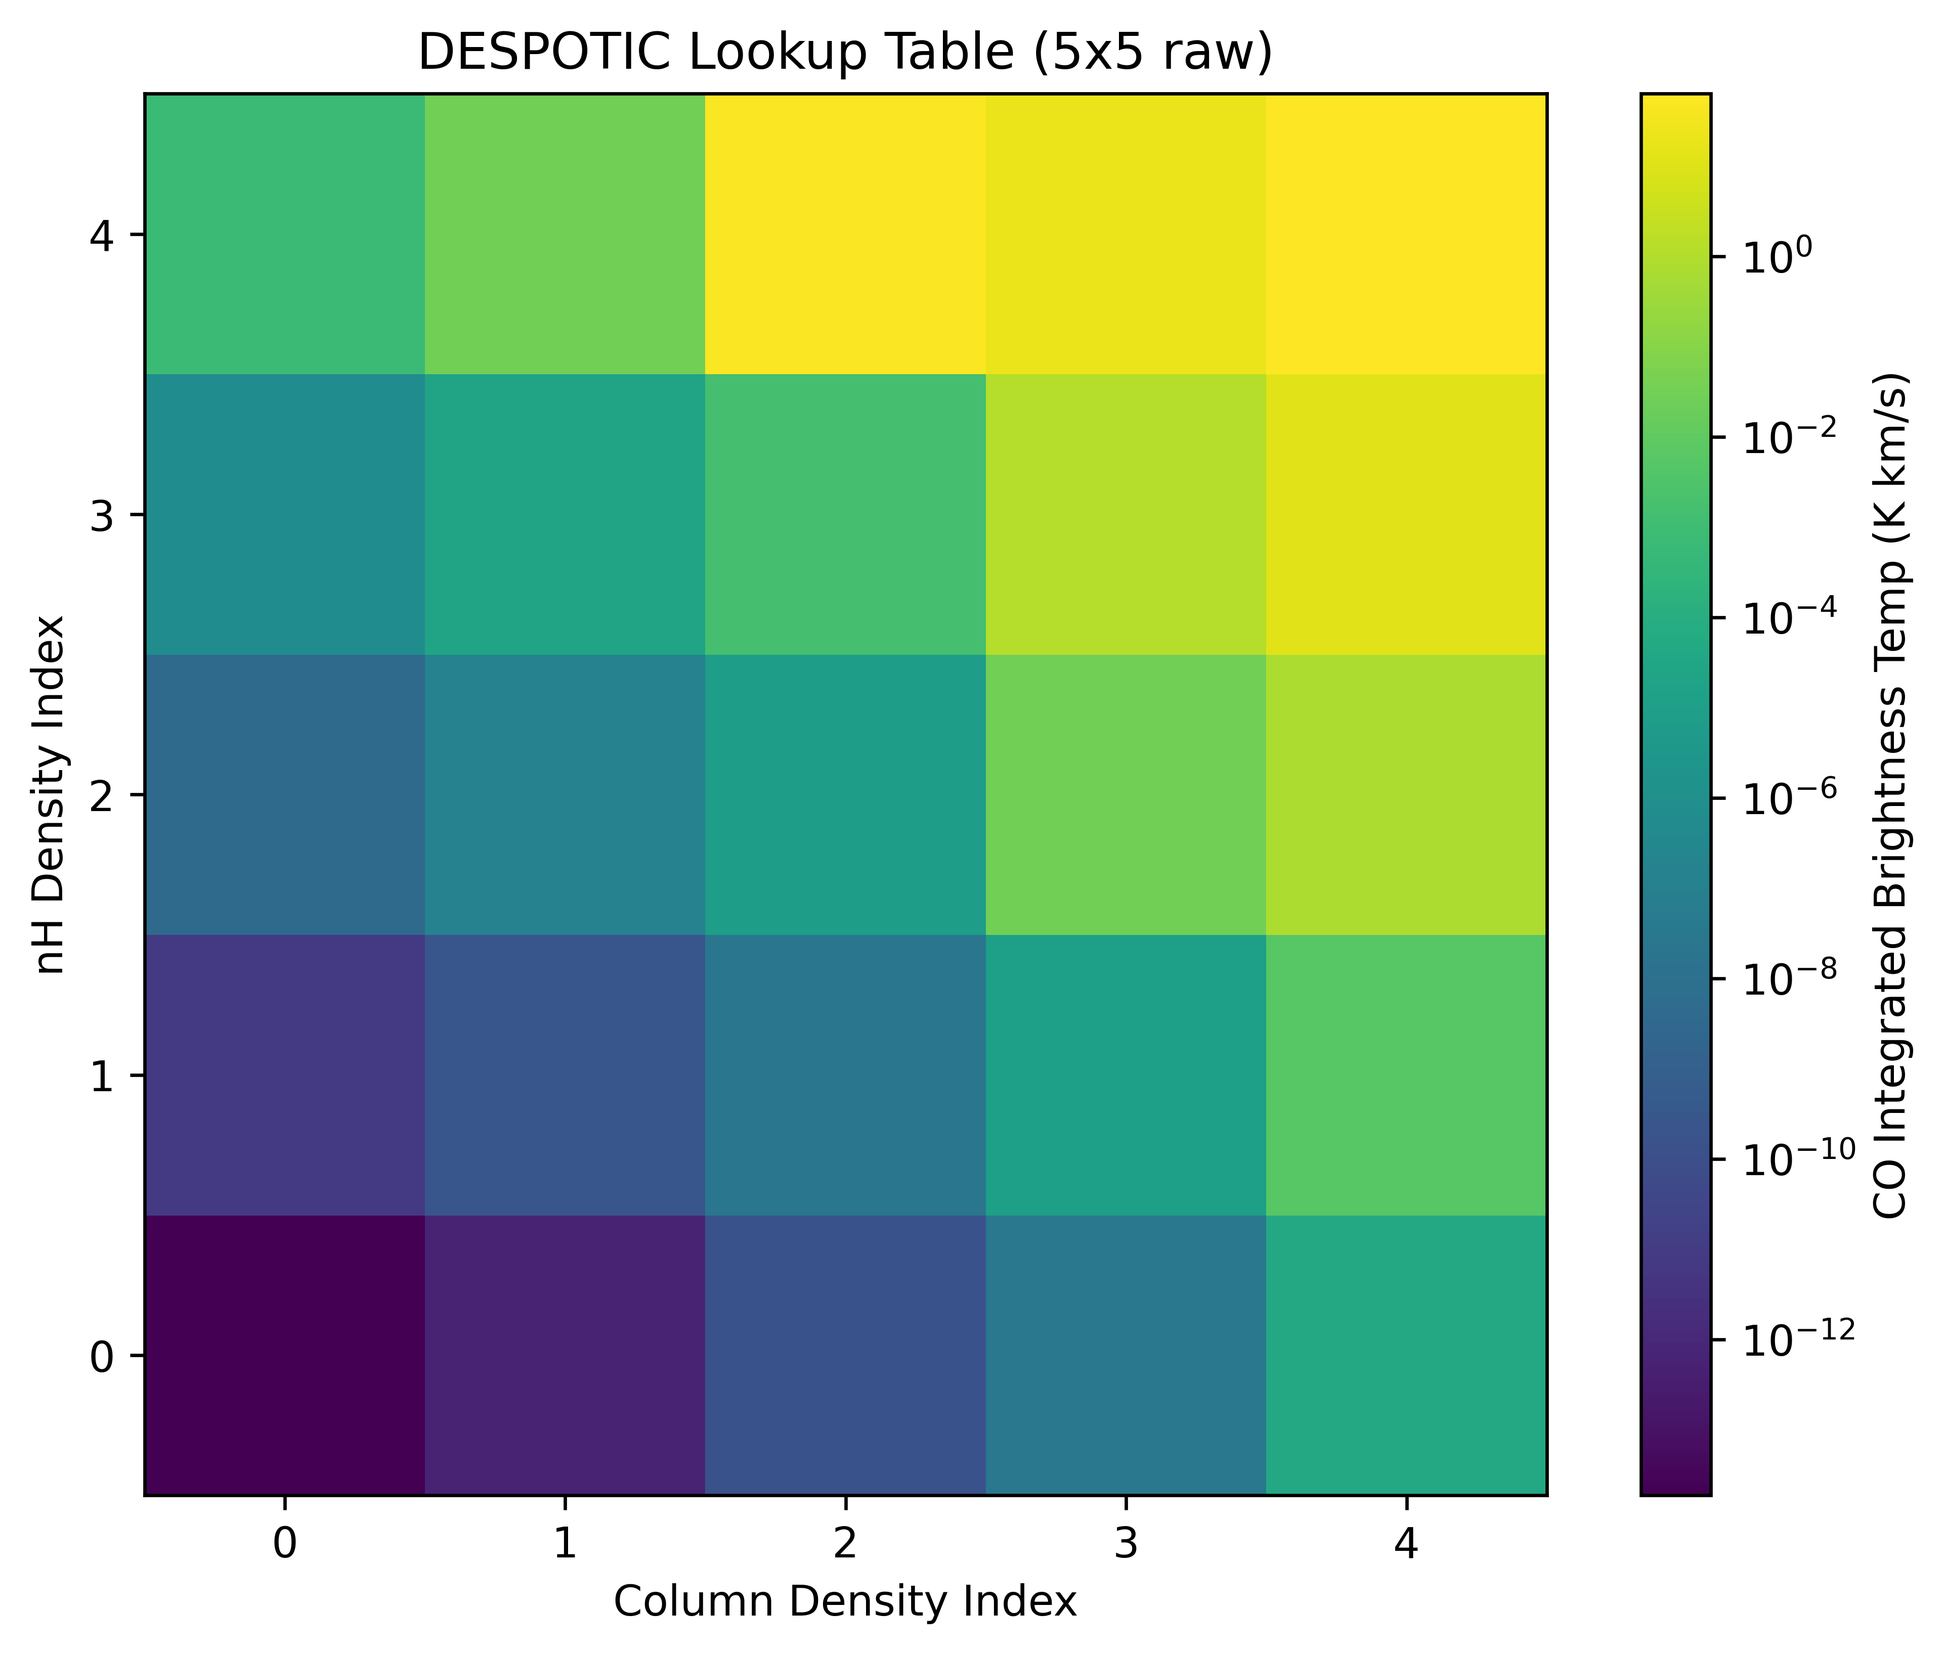
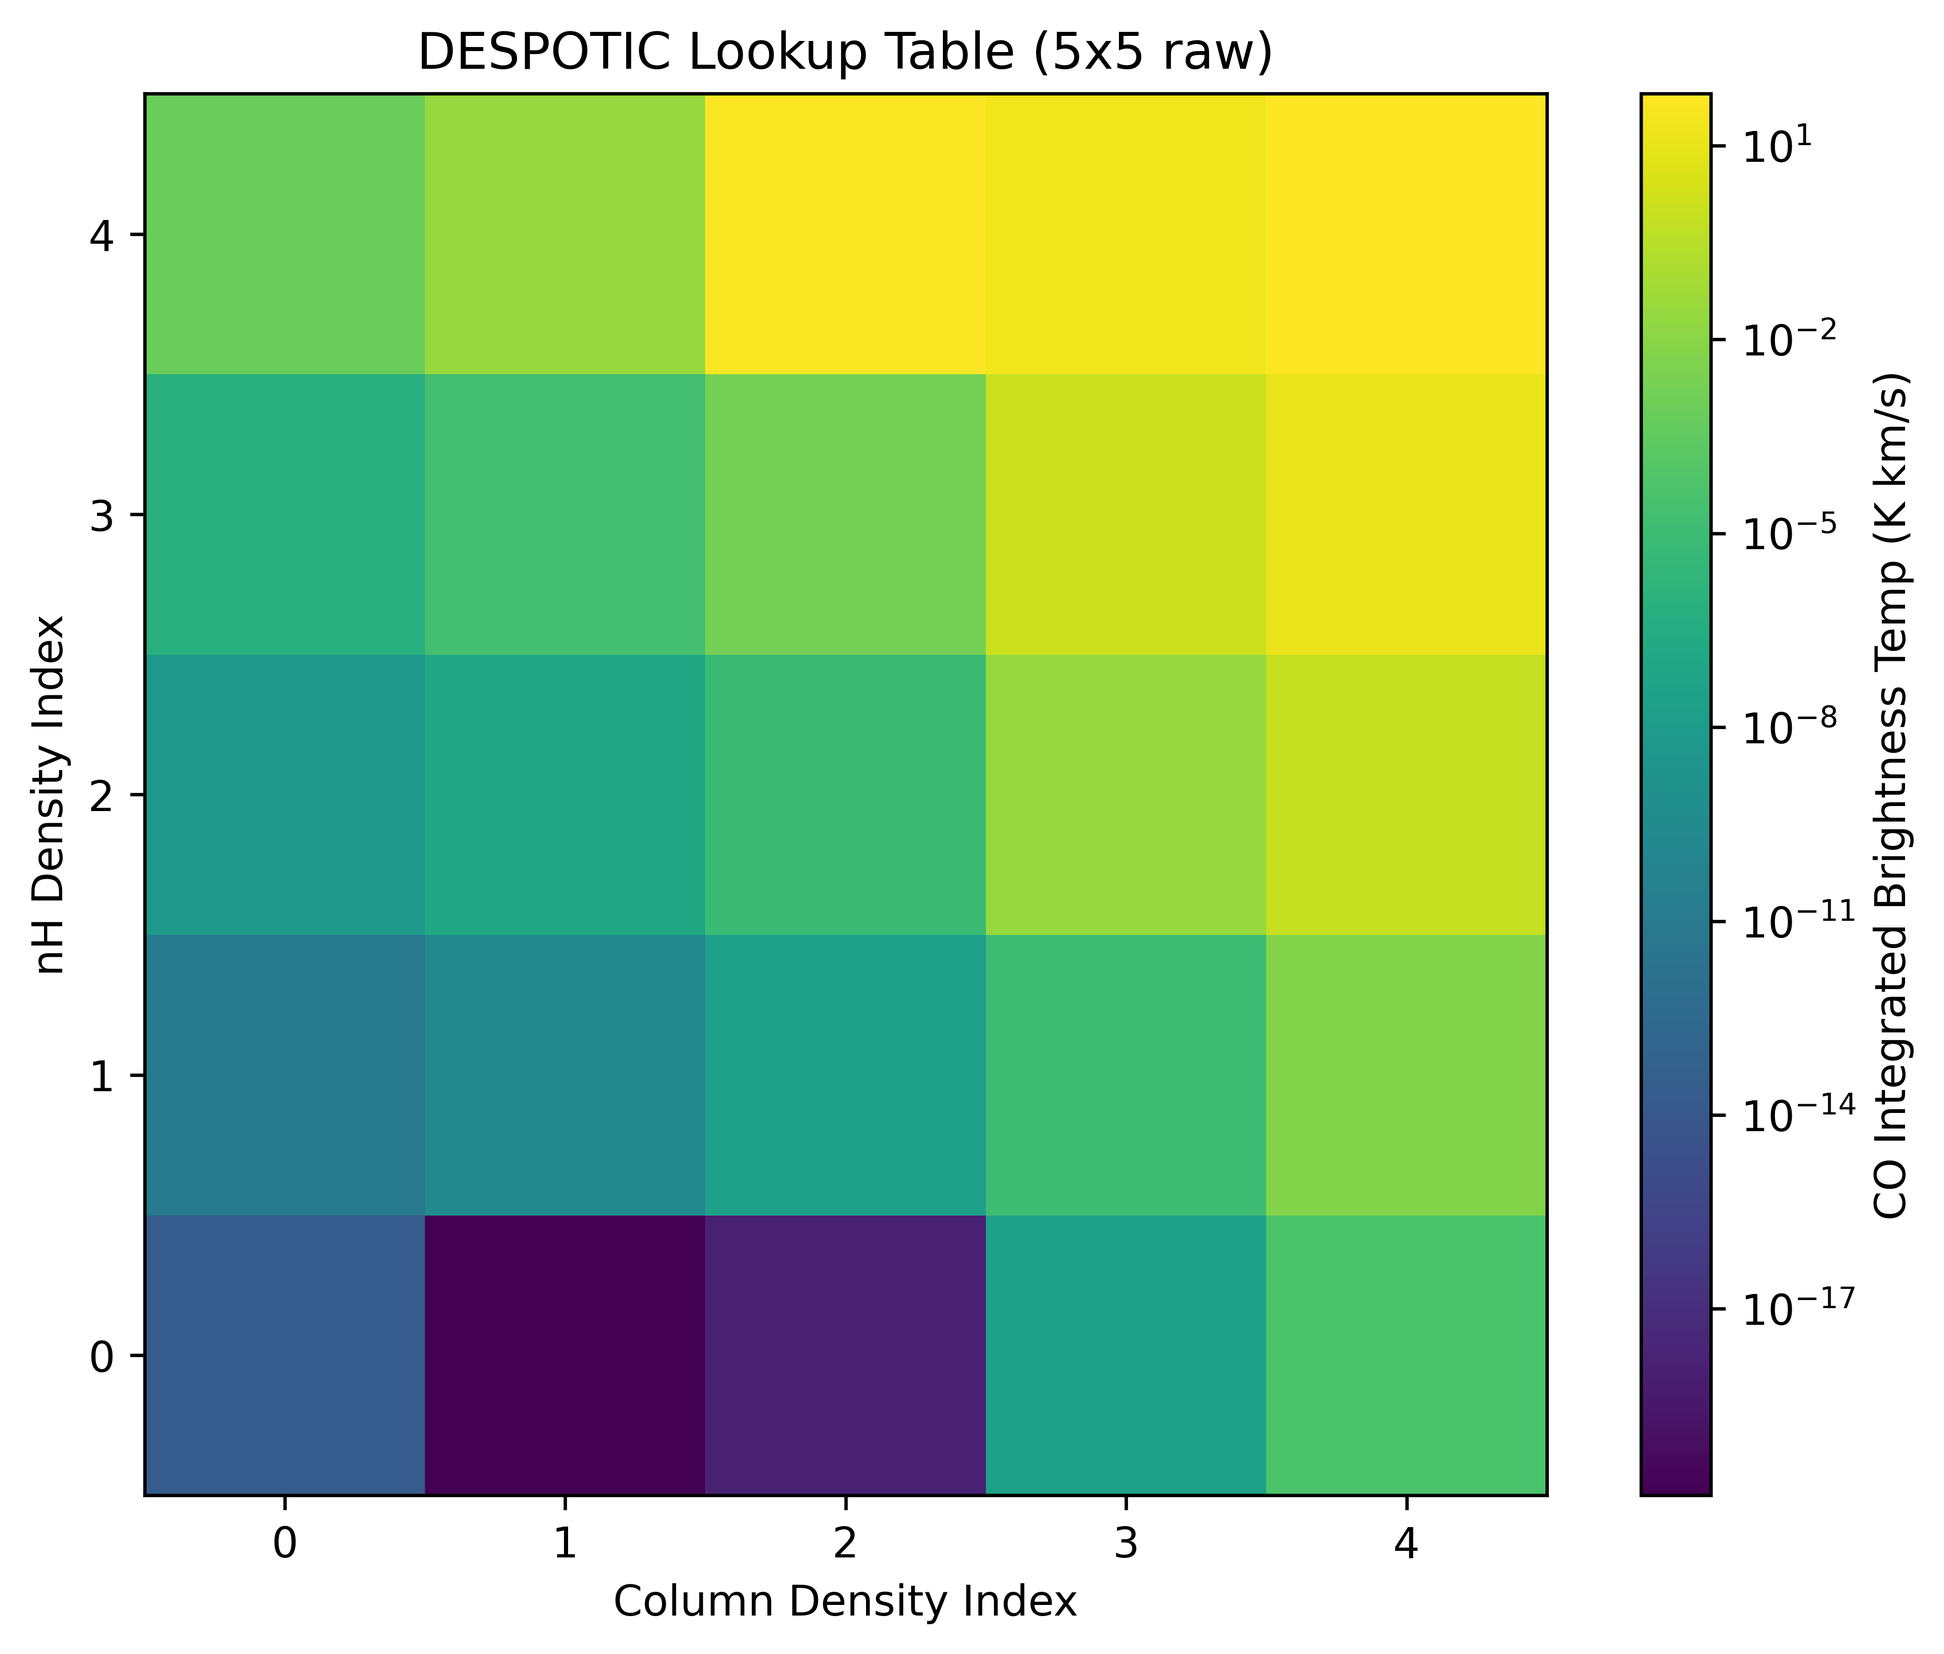
fixed table

diff --git a/examples/halpha_analysis/single_point.py b/examples/halpha_analysis/single_point.py
@@ -13,16 +13,24 @@ import config as cfg
 # import yt
 
 # mH = mh
-Tg_map = [1958.3639773669447, 1876.3811984430195, 1904.6735038533895, 2269.7464280911563, 5529.099690585343, 4467.07705368385, 1921.7595997264211, 1903.3063609939322, 1907.7950789311126, 1923.5653681769838, 3128.178080797415, 1921.9298726833636, 1896.4011480919055, 1909.3440156155311, 13996.874562092222, 3022.9801308742763, 1907.308357562927, 1909.4572682127873, 2229.9653914481332, 1947.0623389936507, 2388.5525460121485, 1901.115961026267, 2393.6290610541246, 2693.9753954376056, 1907.308357562927, 1907.308357562927, 1906.8138296348143, 2959.997148072065, 208072.04383595262, 503398.0480434042, 6199404.503674414, 1907.3083575629323, 1951.2451612775776, 1907.2675792788657, 1907.3096438825598, 2098.333042303612, 37739.033264610196, 25301.5132811833, 1907.1986667866572, 1906.0004035267134, 1940.9177912829907, 1907.2974533513202, 1907.978989716906, 1907.308433427053, 1926.1281732989792, 2043.475598201943, 2061.8065832019997, 1906.219433232716, 34590.689516202736, 24173.3696307906, 1123275.1871095176, 1998.2232263030933, 1891.6056493165058, 1908.05451292517, 1909.1151153089127, 1907.308357562927, 889293.6619643234, 67831.41869508532, 69094.70519253935, 2621.014000572547, 2080.154582484991, 1890.6529949503965, 2618.834115138999, 1907.3084022789865]
-nH_map = [1.2320302372133183, 1.1684523696695739, 1.1974539579455588, 1.1942401672150151, 1.1855342979956085, 1.161448216214898, 1.199584760383945, 1.1753252637279459, 1.210521822892777, 1.1970207113781501, 1.19178332916999, 1.1321923164717076, 1.2076318592876174, 1.188859439192268, 1.1836976773830432, 1.1558925146612018, 1.1858019085800937, 1.1861685427101936, 1.1908277898323791, 1.2344626428349812, 1.2050211555908568, 1.1982340482522424, 1.206347083730393, 1.1865016791306218, 1.1858019085800937, 1.1858019085800937, 1.1873304494075356, 1.206115360795091, 1.1779518031419949, 1.1892951461545724, 1.1545051815415148, 1.1858019085801197, 1.179608466561351, 1.1858994073878082, 1.1858070530759097, 1.1918373321349323, 1.1433411860145717, 1.1602835898674009, 1.1859242619930501, 1.1923800389509445, 1.192878087036351, 1.1858206349049605, 1.1864388868281999, 1.1858020373339584, 1.1968288635100475, 1.1977691937746906, 1.1859647204675012, 1.1903900060189183, 1.1866796114621316, 1.206031662664297, 1.1748806508216025, 1.2125163035408497, 1.2029741826696536, 1.1878734281802794, 1.1897061459608487, 1.1858019085800937, 1.1791845771894107, 1.1600456182676286, 1.2035796972905481, 1.2044040890806997, 1.1469815629635776, 1.212447323823883, 1.1770582579165845, 1.1858019708459082]
-colDens_map = [9.786281204255755e+19, 9.666951701779079e+19, 9.724975802568827e+19, 9.733322563233071e+19, 9.6838059557484e+19, 9.671120964662336e+19, 9.713585793744065e+19, 9.67320637676157e+19, 9.73839076563484e+19, 9.687896219838741e+19, 9.694492773090741e+19, 9.641266645309397e+19, 9.69992930411563e+19, 9.686045767796931e+19, 9.674831880493859e+19, 9.627783636681343e+19, 9.753600832311237e+19, 9.723986188304089e+19, 9.746089961439465e+19, 9.822600009452415e+19, 9.744705874662762e+19, 9.748553925928549e+19, 9.75454538601202e+19, 9.716677907541502e+19, 9.706145460833103e+19, 9.675782430154767e+19, 9.694954915470474e+19, 9.73260932042937e+19, 9.65307602394057e+19, 9.691773018327938e+19, 9.63946406547262e+19, 9.668966165132386e+19, 9.675940505517359e+19, 9.65727137273969e+19, 9.67396007269483e+19, 9.698344441934466e+19, 9.59971515709126e+19, 9.633723751156372e+19, 9.660232414632685e+19, 9.659619009654722e+19, 9.732970696544918e+19, 9.695186683882268e+19, 9.712989713072216e+19, 9.729076395379946e+19, 9.706552542713476e+19, 9.717844846787597e+19, 9.695854572652141e+19, 9.694899734829269e+19, 9.735649821753013e+19, 9.732839287600431e+19, 9.689435388612021e+19, 9.775688300392872e+19, 9.725361712896752e+19, 9.71607330277694e+19, 9.713394283819046e+19, 9.697990926250071e+19, 9.685789539555518e+19, 9.642895153297108e+19, 9.711278354429588e+19, 9.73407766070865e+19, 9.609640744783649e+19, 9.719601595900025e+19, 9.668506161480008e+19, 9.667747813691875e+19]
+# Tg_map = [1958.3639773669447, 1876.3811984430195, 1904.6735038533895, 2269.7464280911563, 5529.099690585343, 4467.07705368385, 1921.7595997264211, 1903.3063609939322, 1907.7950789311126, 1923.5653681769838, 3128.178080797415, 1921.9298726833636, 1896.4011480919055, 1909.3440156155311, 13996.874562092222, 3022.9801308742763, 1907.308357562927, 1909.4572682127873, 2229.9653914481332, 1947.0623389936507, 2388.5525460121485, 1901.115961026267, 2393.6290610541246, 2693.9753954376056, 1907.308357562927, 1907.308357562927, 1906.8138296348143, 2959.997148072065, 208072.04383595262, 503398.0480434042, 6199404.503674414, 1907.3083575629323, 1951.2451612775776, 1907.2675792788657, 1907.3096438825598, 2098.333042303612, 37739.033264610196, 25301.5132811833, 1907.1986667866572, 1906.0004035267134, 1940.9177912829907, 1907.2974533513202, 1907.978989716906, 1907.308433427053, 1926.1281732989792, 2043.475598201943, 2061.8065832019997, 1906.219433232716, 34590.689516202736, 24173.3696307906, 1123275.1871095176, 1998.2232263030933, 1891.6056493165058, 1908.05451292517, 1909.1151153089127, 1907.308357562927, 889293.6619643234, 67831.41869508532, 69094.70519253935, 2621.014000572547, 2080.154582484991, 1890.6529949503965, 2618.834115138999, 1907.3084022789865]
+# nH_map = [1.2320302372133183, 1.1684523696695739, 1.1974539579455588, 1.1942401672150151, 1.1855342979956085, 1.161448216214898, 1.199584760383945, 1.1753252637279459, 1.210521822892777, 1.1970207113781501, 1.19178332916999, 1.1321923164717076, 1.2076318592876174, 1.188859439192268, 1.1836976773830432, 1.1558925146612018, 1.1858019085800937, 1.1861685427101936, 1.1908277898323791, 1.2344626428349812, 1.2050211555908568, 1.1982340482522424, 1.206347083730393, 1.1865016791306218, 1.1858019085800937, 1.1858019085800937, 1.1873304494075356, 1.206115360795091, 1.1779518031419949, 1.1892951461545724, 1.1545051815415148, 1.1858019085801197, 1.179608466561351, 1.1858994073878082, 1.1858070530759097, 1.1918373321349323, 1.1433411860145717, 1.1602835898674009, 1.1859242619930501, 1.1923800389509445, 1.192878087036351, 1.1858206349049605, 1.1864388868281999, 1.1858020373339584, 1.1968288635100475, 1.1977691937746906, 1.1859647204675012, 1.1903900060189183, 1.1866796114621316, 1.206031662664297, 1.1748806508216025, 1.2125163035408497, 1.2029741826696536, 1.1878734281802794, 1.1897061459608487, 1.1858019085800937, 1.1791845771894107, 1.1600456182676286, 1.2035796972905481, 1.2044040890806997, 1.1469815629635776, 1.212447323823883, 1.1770582579165845, 1.1858019708459082]
+# colDens_map = [9.786281204255755e+19, 9.666951701779079e+19, 9.724975802568827e+19, 9.733322563233071e+19, 9.6838059557484e+19, 9.671120964662336e+19, 9.713585793744065e+19, 9.67320637676157e+19, 9.73839076563484e+19, 9.687896219838741e+19, 9.694492773090741e+19, 9.641266645309397e+19, 9.69992930411563e+19, 9.686045767796931e+19, 9.674831880493859e+19, 9.627783636681343e+19, 9.753600832311237e+19, 9.723986188304089e+19, 9.746089961439465e+19, 9.822600009452415e+19, 9.744705874662762e+19, 9.748553925928549e+19, 9.75454538601202e+19, 9.716677907541502e+19, 9.706145460833103e+19, 9.675782430154767e+19, 9.694954915470474e+19, 9.73260932042937e+19, 9.65307602394057e+19, 9.691773018327938e+19, 9.63946406547262e+19, 9.668966165132386e+19, 9.675940505517359e+19, 9.65727137273969e+19, 9.67396007269483e+19, 9.698344441934466e+19, 9.59971515709126e+19, 9.633723751156372e+19, 9.660232414632685e+19, 9.659619009654722e+19, 9.732970696544918e+19, 9.695186683882268e+19, 9.712989713072216e+19, 9.729076395379946e+19, 9.706552542713476e+19, 9.717844846787597e+19, 9.695854572652141e+19, 9.694899734829269e+19, 9.735649821753013e+19, 9.732839287600431e+19, 9.689435388612021e+19, 9.775688300392872e+19, 9.725361712896752e+19, 9.71607330277694e+19, 9.713394283819046e+19, 9.697990926250071e+19, 9.685789539555518e+19, 9.642895153297108e+19, 9.711278354429588e+19, 9.73407766070865e+19, 9.609640744783649e+19, 9.719601595900025e+19, 9.668506161480008e+19, 9.667747813691875e+19]
 # ds = yt.load(cfg.YT_DATASET_PATH)
+
 
 cell = cloud()
 
-cell.Tg = Tg_map[0]
-cell.nH = nH_map[0]
-cell.colDen = colDens_map[0]
+
+cell.Tg = 6.421e+09
+cell.nH = 1.000e-04
+cell.colDen = 4.642e+18
+
+
+cell.Tg = 2.656e+03
+cell.nH = 5.995e-03
+cell.colDen = 2.154e+23
+
 
 co_line_map = []
 
@@ -32,7 +40,7 @@ cell.sigmaNT = 2.0e5
 cell.comp.xoH2 = 0.1
 cell.comp.xpH2 = 0.4
 cell.comp.xHe = 0.1
-cell.comp.mu = 0.6
+# cell.comp.mu = 0.6
 
 cell.dust.alphaGD   = 3.2e-34    # Dust-gas coupling coefficient
 cell.dust.sigma10   = 2.0e-25    # Cross section for 10K thermal radiation
@@ -49,7 +57,11 @@ cell.rad.chi        = 1.0        # ISRF normalized to Solar neighborhood
 cell.addEmitter("CO", 8.0e-9)
 
 
+
 # --- 執行核心計算 ---
+cell.setTempEq()
+print(f"mu = {cell.comp.mu}")
+
 cell.setChemEq(network=NL99, evolveTemp='iterate')
 
 # --- 處理計算結果 ---
@@ -59,4 +71,5 @@ co_int_TB = lines[0]['intTB']
 co_line_map.append(co_int_TB)
 
 
-print(co_line_map)
+print(f"co_line_map = {co_line_map}")
+print(f"Tg final = {cell.Tg}")

diff --git a/quokka2s/src/quokka2s/despotic_tables.py b/quokka2s/src/quokka2s/despotic_tables.py
@@ -5,6 +5,10 @@ from dataclasses import dataclass
 from typing import Iterable, List, Optional, Sequence, Tuple
 import warnings
 
+import contextlib
+import io
+
+
 import numpy as np
 from joblib import Parallel, delayed
 from scipy.interpolate import RectBivariateSpline, griddata
@@ -58,6 +62,8 @@ def calculate_single_despotic_point(
     log_failures: bool = False,
     emitter_abundance: float = DEFAULT_EMITTER_ABUNDANCE,
     repeat_equilibrium: int = 0,
+    row_idx: int | None = None, 
+    col_idx: int | None = None,
 ) -> Tuple[float, float]:
     """Run DESPOTIC for one (nH, column density) pair.
 
@@ -74,7 +80,7 @@ def calculate_single_despotic_point(
             cell.comp.xoH2 = 0.1
             cell.comp.xpH2 = 0.4
             cell.comp.xHe = 0.1
-            cell.comp.mu = 0.6
+            # cell.comp.mu = 0.6
 
             cell.dust.alphaGD = 3.2e-34
             cell.dust.sigma10 = 2.0e-25
@@ -88,34 +94,59 @@ def calculate_single_despotic_point(
             cell.rad.TradDust = 0.0
             cell.rad.ionRate = 2.0e-17
             cell.rad.chi = 1.0
+            
+            cell.setTempEq()
 
             cell.addEmitter("CO", emitter_abundance)
 
             # print("="*50)
             # print(f"initial cell.Tg = {cell.Tg}")
             # print("="*50)
+            buffer = io.StringIO()
+            with contextlib.redirect_stdout(buffer):
+                cell.setChemEq(network=NL99, evolveTemp="iterate")
 
-            cell.setChemEq(network=NL99, evolveTemp="iterate")
+                # print("+"*50)
+                # print(f"final cell.Tg = {cell.Tg}")
+                # print("+"*50)
 
-            # print("+"*50)
-            # print(f"final cell.Tg = {cell.Tg}")
-            # print("+"*50)
+                if repeat_equilibrium > 0:
+                    for _ in range(repeat_equilibrium):
+                        # print("$"*50)
+                        # print(f"initial cell.Tg = {cell.Tg}")
+                        # print("$"*50)
 
-            if repeat_equilibrium > 0:
-                for _ in range(repeat_equilibrium):
-                    # print("$"*50)
-                    # print(f"initial cell.Tg = {cell.Tg}")
-                    # print("$"*50)
+                        cell.setChemEq(network=NL99, evolveTemp="iterate")
 
-                    cell.setChemEq(network=NL99, evolveTemp="iterate")
+                        # print("+"*50)
+                        # print(f"final cell.Tg = {cell.Tg}")
+                        # print("+"*50)
 
-                    # print("+"*50)
-                    # print(f"final cell.Tg = {cell.Tg}")
-                    # print("+"*50)
+                lines = cell.lineLum("CO")
+                co_int_TB = lines[0]["intTB"]
+                final_Tg = float(cell.Tg)
 
-            lines = cell.lineLum("CO")
-            co_int_TB = lines[0]["intTB"]
-            return co_int_TB, cell.Tg
+            if (not np.isfinite(co_int_TB)) or (co_int_TB <= 0.0) or (not np.isfinite(final_Tg)) or (final_Tg <= 0.0):
+                row_str = "?" if row_idx is None else row_idx
+                col_str = "?" if col_idx is None else col_idx
+                index_info = f"(i={row_str}, j={col_str})"
+
+                diagnostics_msg = (
+                    "DESPOTIC returned an invalid state:\n"
+                    f"  intTB = {co_int_TB:.3e} K km/s\n"
+                    f"  Tg    = {final_Tg:.3e} K\n"
+                    f"  grid  = {index_info}\n"
+                    f"  nH    = {nH_val:.3e} cm^-3\n"
+                    f"  colDen= {colDen_val:.3e} cm^-2\n"
+                    f"  Tg guess = {guess:.3e} K\n"
+                    f"  repeat_equilibrium = {repeat_equilibrium}\n"
+                    f"  emitter_abundance  = {emitter_abundance:.3e}"
+                )
+
+                warnings.warn(diagnostics_msg, RuntimeWarning)
+                return float("nan"), float("nan")
+
+            return co_int_TB, final_Tg
         
         except Exception as exc:  # pragma: no cover - DESPOTIC exceptions vary
             if log_failures:
@@ -135,12 +166,14 @@ def _compute_row(
     *,
     repeat_equilibrium: int = 0,
     log_failures: bool = False,
+    row_idx: int,
 ) -> Tuple[List[float], List[float]]:
     
     co_row: List[float] = []
     tg_row: List[float] = []
 
-    for colDen in col_den_points:
+    for col_idx, colDen in enumerate(col_den_points):
+
         dynamic_guesses: Sequence[float] = guess_list
         if interpolator is not None:
             try:
@@ -160,7 +193,9 @@ def _compute_row(
             colDen_val=colDen,
             initial_Tg_guesses=dynamic_guesses,
             log_failures=log_failures,
-            repeat_equilibrium=repeat_equilibrium
+            repeat_equilibrium=repeat_equilibrium,
+            row_idx=row_idx,
+            col_idx=col_idx,
         )
 
         co_row.append(co_val)
@@ -196,8 +231,9 @@ def build_table(
             interpolator,
             repeat_equilibrium=repeat_equilibrium,
             log_failures=log_failures,
+            row_idx=row_idx,
         )
-        for nH in nH_iterable
+        for row_idx, nH in enumerate(nH_iterable)      
     )
 
     co_int_tb = np.array([row[0] for row in results])

diff --git a/examples/halpha_analysis/build_despotic_table.py b/examples/halpha_analysis/build_despotic_table.py
@@ -16,12 +16,12 @@ OUTPUT_DIR = Path("output_tables_direct")
 OUTPUT_DIR.mkdir(parents=True, exist_ok=True)
 N_H_RANGE = (1e-4, 1e4)
 COL_DEN_RANGE = (1e18, 1e24)
-RESOLUTION_STEPS = (5, 50)
+RESOLUTION_STEPS = (5, 10)
 FILL = False
 TG_GUESSES = np.logspace(np.log10(10.0), np.log10(10000.0), 20).tolist()
 PLOT_DPI = 600
 SHOW_PLOTS = False
-REPEAT = 8
+REPEAT = 2
 
 def plot_table(data: np.ndarray, output_path: str, title: str, show: bool = SHOW_PLOTS) -> None:
     """Render and optionally display a lookup table heatmap."""
